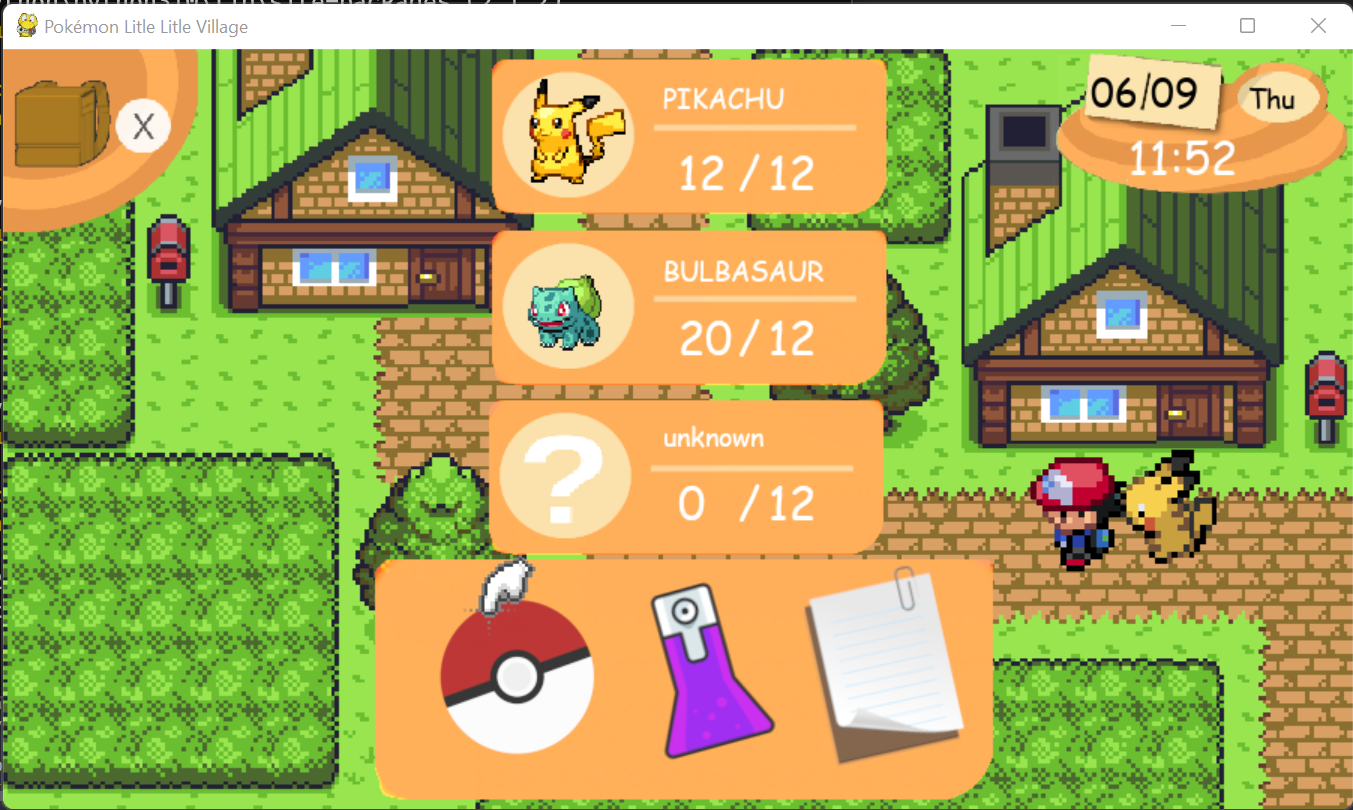
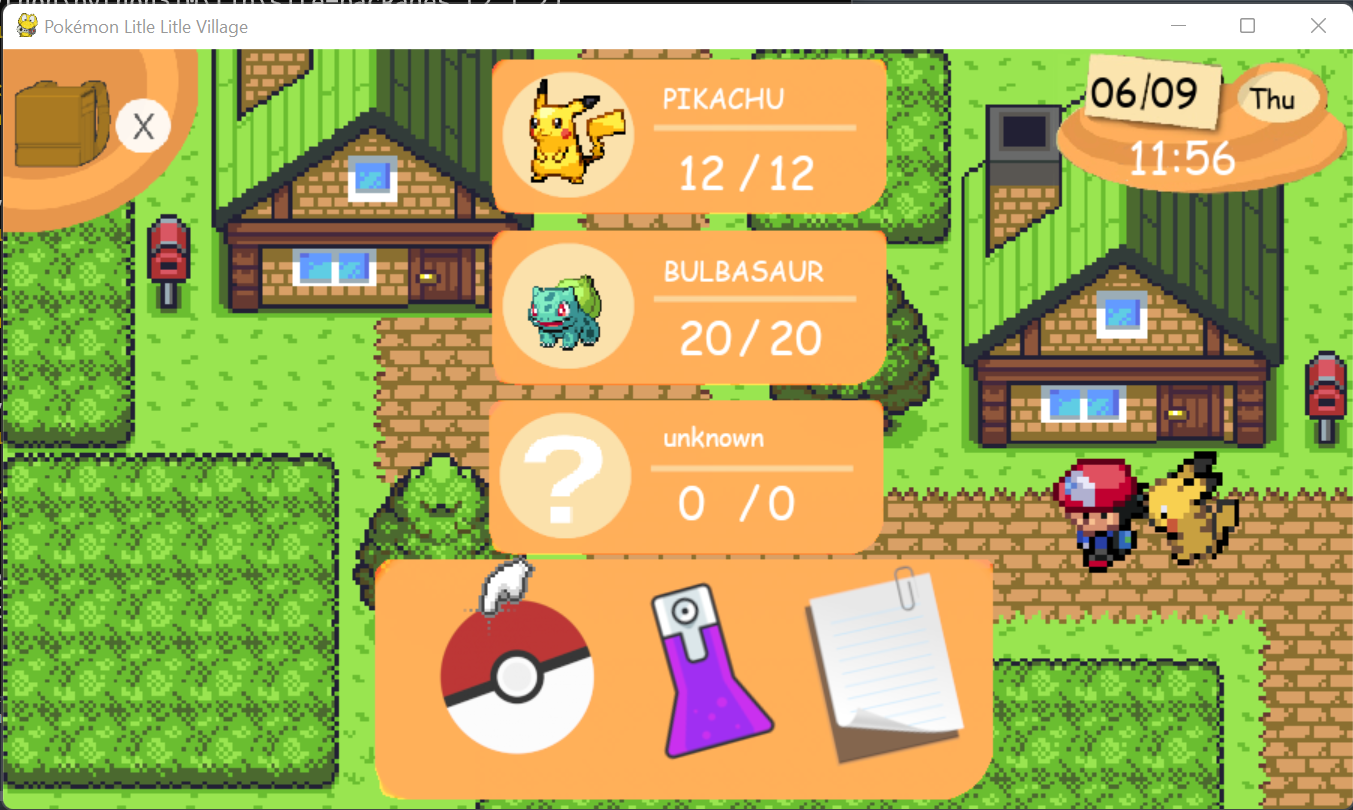
bugfixes

diff --git a/main.py b/main.py
@@ -4713,7 +4713,7 @@ def create_bag_screen() :
 	WIN.blit(separator, (490, 170))
 
 	pokemon_2_hp_base = POKEBALLS_COUNTER.render("" + str(pokemon_2_hp_base), 1, WHITE)
-	WIN.blit(pokemon_1_hp_base, (510, 170))
+	WIN.blit(pokemon_2_hp_base, (510, 170))
 
 	pokemon_2_photo = pygame.transform.scale(pokemon_2_photo, (55,62))
 	WIN.blit(pokemon_2_photo, (348, 140))
@@ -4730,7 +4730,7 @@ def create_bag_screen() :
 	WIN.blit(separator, (490, 280))
 
 	pokemon_3_hp_base = POKEBALLS_COUNTER.render("" + str(pokemon_3_hp_base), 1, WHITE)
-	WIN.blit(pokemon_1_hp_base, (510, 280))
+	WIN.blit(pokemon_3_hp_base, (510, 280))
 
 	pokemon_3_photo = pygame.transform.scale(pokemon_3_photo, (55,62))
 	WIN.blit(pokemon_3_photo, (345, 255))
